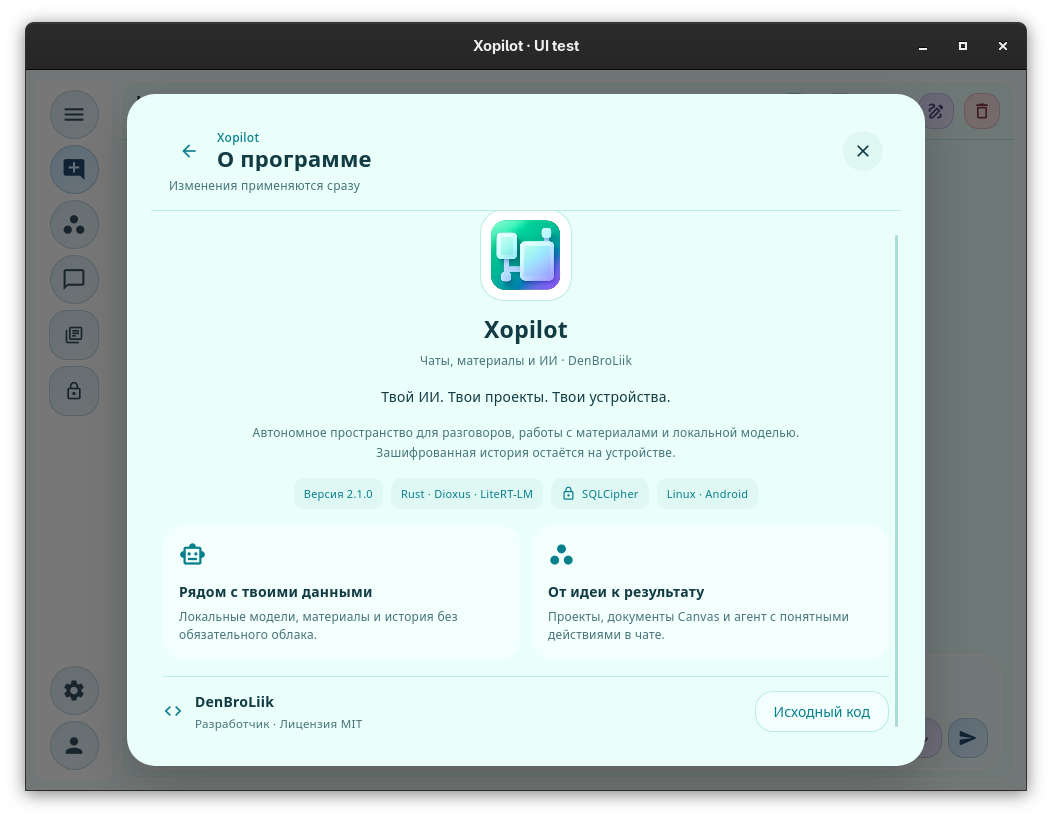
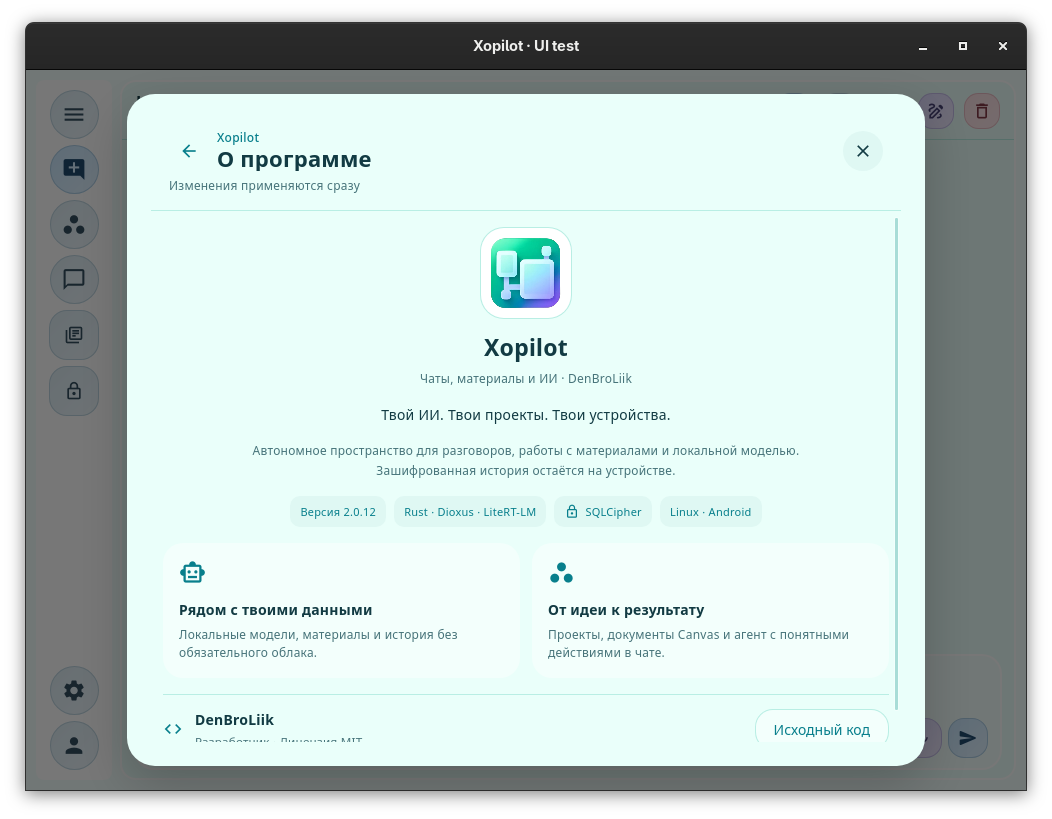
Разделить прокрутку окон и перенести уведомления в версии 2.0.12

diff --git a/App/app/shared/dialog_scroll.js b/App/app/shared/dialog_scroll.js
@@ -1,0 +1,16 @@
+// Каждая страница запоминает собственную прокрутку, даже если WebKit переиспользовал узел.
+await new Promise(resolve => requestAnimationFrame(resolve));
+const body = document.querySelector('.dialog-body[data-scroll-page]');
+if (body && body.dataset.scrollReady !== body.dataset.scrollPage) {
+    const positions = window.xopilotDialogScroll ??= new Map();
+    const page = body.dataset.scrollPage;
+    if (body.xopilotScrollHandler) body.removeEventListener('scroll', body.xopilotScrollHandler);
+    body.dataset.scrollReady = page;
+    body.scrollTop = positions.get(page) ?? 0;
+    // Событие от замены содержимого может прийти раньше следующего кадра.
+    // Старый слушатель не должен записать новую высоту в позицию предыдущей страницы.
+    body.xopilotScrollHandler = () => {
+        if (body.dataset.scrollPage === page) positions.set(page, body.scrollTop);
+    };
+    body.addEventListener('scroll', body.xopilotScrollHandler, { passive: true });
+}

diff --git a/App/app/theme/design.css b/App/app/theme/design.css
@@ -316,3 +316,8 @@ select.preference-select, .field select {
 @media(prefers-reduced-motion:reduce){.progress-fill{transition:none}.progress-fill.indeterminate{animation:none;transform:translateX(90%)}}
 .activity-item[data-state=error] { border-color:var(--danger-edge); }
 .activity-item[data-state=error] .progress-fill { background:var(--danger-ink); }
+/* Вне чата уведомления закреплены в углу приложения, отдельно от прокрутки окон. */
+.activity-corner { position:fixed; top:12px; right:12px; width:min(380px,calc(100vw - 24px)); z-index:90; pointer-events:none; }
+.activity-corner .activity-dock { max-height:40dvh; margin:0; }
+.activity-corner .activity-item { pointer-events:auto; box-shadow:0 4px 16px #0002; }
+.dialog-body { overscroll-behavior:contain; overflow-anchor:none; }

diff --git a/App/app/main.rs b/App/app/main.rs
@@ -77,6 +77,7 @@ pub fn build_window() -> Element {
     let pending_section = value.pending_section;
     let approval = value.approval.clone();
     let approval_open = approval.is_some();
+    let outside_chat = value.screen != state::Screen::Chat;
     drop(value);
     // Обычное уведомление не должно навсегда перекрывать кнопки на телефоне.
     let notice_value = use_memo(move || state.read().notice.clone());
@@ -163,6 +164,13 @@ pub fn build_window() -> Element {
                     }
                 }
                 dialogs::build_overlay {
+                }
+                if outside_chat {
+                    aside {
+                        class: "activity-corner",
+                        "aria-label": "Уведомления приложения",
+                        super::shared::activity_dock::build_activity_dock {}
+                    }
                 }
             }
             if !has_store {

diff --git a/App/app/shared/dialog.rs b/App/app/shared/dialog.rs
@@ -18,6 +18,7 @@ pub fn build_dialog(
 ) -> Element {
     let state = use_context::<Signal<AppState>>();
     use_effect(use_reactive((&title,), move |_| {
+        document::eval(include_str!("dialog_scroll.js"));
         document::eval(include_str!("dialog_focus.js"));
     }));
     use_drop(move || {
@@ -92,10 +93,11 @@ pub fn build_dialog(
                     }
                 }
                 div {
+                    key: "{title}",
                     class: "dialog-body",
+                    "data-scroll-page": title.clone(),
                     {children}
                 }
-                super::activity_dock::build_activity_dock {}
             }
         }
     }

diff --git a/tests/RUST_DIOXUS.md b/tests/RUST_DIOXUS.md
@@ -1,17 +1,17 @@
 # Проверки Rust / Dioxus — 11 ноября 2026
 
-- `cargo test --workspace --no-default-features --locked`: **48 тестов**, ошибок нет.
+- `cargo test --workspace --no-default-features --locked`: **51 тест**, ошибок нет.
 - `cargo fmt --all --check`: успешно.
 - `cargo clippy --workspace --all-targets --no-default-features --locked -- -D warnings`: успешно.
 - `cargo clippy --workspace --all-targets --locked -- -D warnings`: успешно с системными GTK3/WebKitGTK/libxdo.
 - `dx build --desktop -p xopilot` и `dx build --desktop -p xopilot --example interface_interaction`: успешно, ресурсы упакованы.
-- Настоящий WebKitGTK: **59 пользовательских проверок**, ширины 1000 и 390 px, отдельные данные. [Отчёт](UI_REVIEW.md).
-- `./scripts/test.sh model /путь/gemma-4-E2B-it.litertlm`: настоящий KV-кеш дополнился, модель сохранила факт из предыдущего сообщения, правка истории пересобрала контекст, сброс чата удалил его. Агент прочитал, изменил и повторно проверил временный файл; содержимое равно `new`. Настоящий разговор о Canvas также прошёл: документ создан с точным содержимым, веса загружены один раз, KV-кеш дополнен 4 раза.
+- Настоящий WebKitGTK: **60 пользовательских проверок**, ширины 1000 и 390 px, отдельные данные. [Отчёт](UI_REVIEW.md).
+- `./scripts/test.sh model /путь/gemma-4-E2B-it.litertlm`: настоящий KV-кеш дополнился, модель сохранила факт из предыдущего сообщения, правка истории пересобрала контекст, сброс чата удалил его. Агент прочитал, изменил и повторно проверил временный файл; содержимое равно `new`. Настоящий разговор о Canvas также прошёл: документ создан с точным содержимым, веса загружены один раз, KV-кеш дополнен 11 раз. Проверен переход от просьбы о файле к Canvas с тем же текстом и защита от заявления об успехе без квитанции инструмента.
 
 Тесты проверяют SQLCipher и неверные ключи, сохранение неизвестных JSON-полей, черновики, проекты, шаблоны, Canvas, обработку вложений, очистку Markdown, ограничение путей/симлинков, конфликты редактора, HTTP/SSE и отмену, установку модели с проверкой SHA-256, подтверждения и остановку агента, автоматическое создание профиля и постоянство UUID, изменение имени/аватара без потери памяти.
 
 Настоящий сервер аккаунтов и Google не вызывались. e4b/GPU и физический телефон не испытывались. Подробные команды — [TESTING.md](TESTING.md), ограничения — [MIGRATION.md](../MIGRATION.md).
 
-Android arm64 debug APK пересобран из текущих исходников с JDK 21, NDK 27.2.12479018, платформой SDK 35 и Build Tools 34/35. Через `aapt2` проверены `by.xopilot.app`, versionName 2.1.0, versionCode 1, min SDK 26 / target 35. В APK находятся `lib/arm64-v8a/liblitert-lm.so` и `libmain.so`.
+Android arm64 debug APK пересобран из текущих исходников с JDK 21, NDK 27.2.12479018, платформой SDK 35 и Build Tools 34/35. Через `aapt2` проверены `by.xopilot.app`, versionName 2.0.12, versionCode 1, min SDK 26 / target 35. В APK находятся `lib/arm64-v8a/liblitert-lm.so` и `libmain.so`.
 
 Артефакт: `target/dx/xopilot/debug/android/app/app/build/outputs/apk/debug/app-debug.apk`. Это debug-сборка; установка на телефон, прежняя подпись, Keystore и Android chooser не проверены. Перед выпуском обновления нужен увеличенный versionCode и исходный ключ подписи.

diff --git a/README.md b/README.md
@@ -32,7 +32,7 @@
 
 ## Интерфейс
 
-Дополнительные окна имеют общий размер и прокручиваемое содержимое. Уведомления и прогресс находятся над вводом, а при открытом окне — в его нижней части. Известный размер сопровождается процентом и объёмом; неизвестный отображается отдельным индикатором. Анимации меняют только прозрачность и transform; `prefers-reduced-motion` отключает движение.
+Дополнительные окна имеют общий размер и прокручиваемое содержимое. Уведомления и прогресс находятся над вводом в чате; вне чата — в правом верхнем углу приложения. Каждый раздел окна сохраняет собственную прокрутку. Известный размер сопровождается процентом и объёмом; неизвестный отображается отдельным индикатором. Анимации меняют только прозрачность и transform; `prefers-reduced-motion` отключает движение.
 
 Компоновка возвращена к Flet-версии: узкая панель и выдвижное меню, компактный заголовок и ввод, исходные иконки/палитры, сообщения и настройки поверх чата. [Сверка с оригиналом и снимки](previews/FLET_PARITY.md).
 

diff --git a/tests/TESTING.md b/tests/TESTING.md
@@ -24,3 +24,5 @@ Google и настоящий сервер аккаунтов не тестиру
 В установленное приложение диагностический Unix-сокет не входит. Он существует только в примере `interface_interaction` и доступен внутри отдельного каталога с правами 0700.
 
 В проверке Canvas последовательно задаются приветствие, вопрос о списке документов и просьба создать документ с точным содержимым. Проверяется сама запись в SQLCipher, отсутствие служебного протокола в ответах и счётчик engine: веса должны загрузиться один раз, KV-контекст — переиспользоваться между вопросами. Для известного и неизвестного прогресса есть отдельный SSR-тест.
+
+В `local_canvas_smoke` также проверяется продолжение просьбы о файле через Canvas и «тоже самое». Проверка квитанций не позволяет выдавать типичные заявления о создании за выполненное действие без успешного инструмента; это дополнительная проверка, а не гарантия понимания любого запроса моделью.
